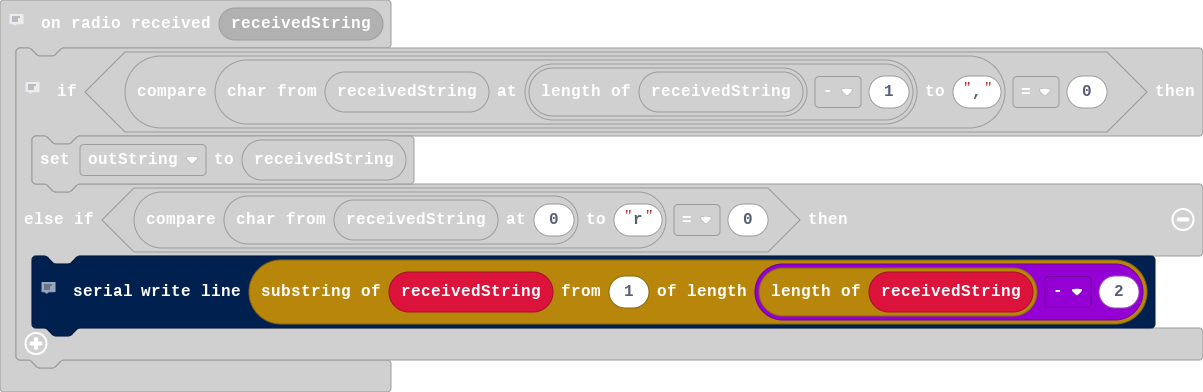
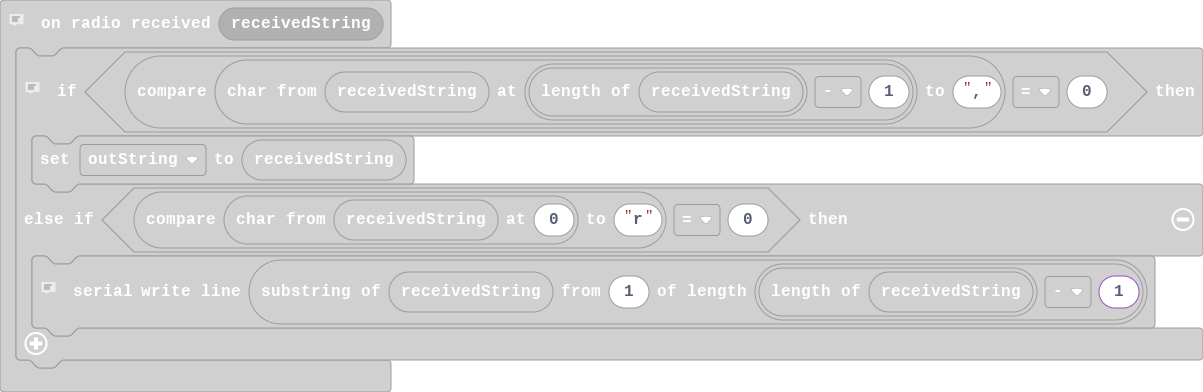
Update main.blocks, main.ts

Changed region(s): [[0.0, 0.6429, 0.9842, 0.8571]]

diff --git a/main.ts b/main.ts
@@ -5,7 +5,7 @@ radio.onReceivedString(function (receivedString) {
         outString = receivedString
     } else if (receivedString.charAt(0).compare("r") == 0) {
         // This is read time data string
-        serial.writeLine(receivedString.substr(1, receivedString.length - 2))
+        serial.writeLine(receivedString.substr(1, receivedString.length - 1))
     }
 })
 // Expect 4 name/value pairs
